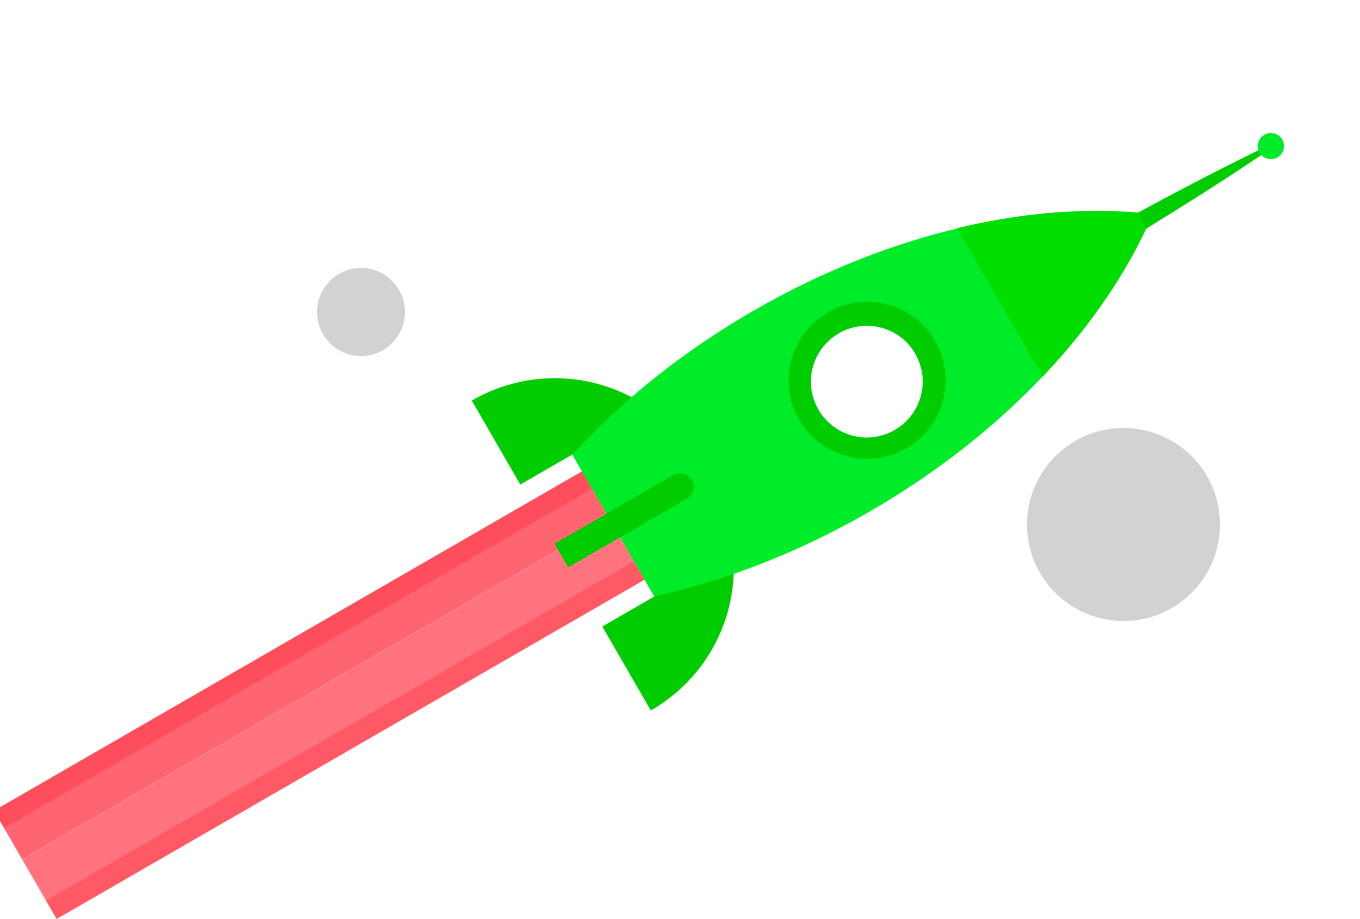
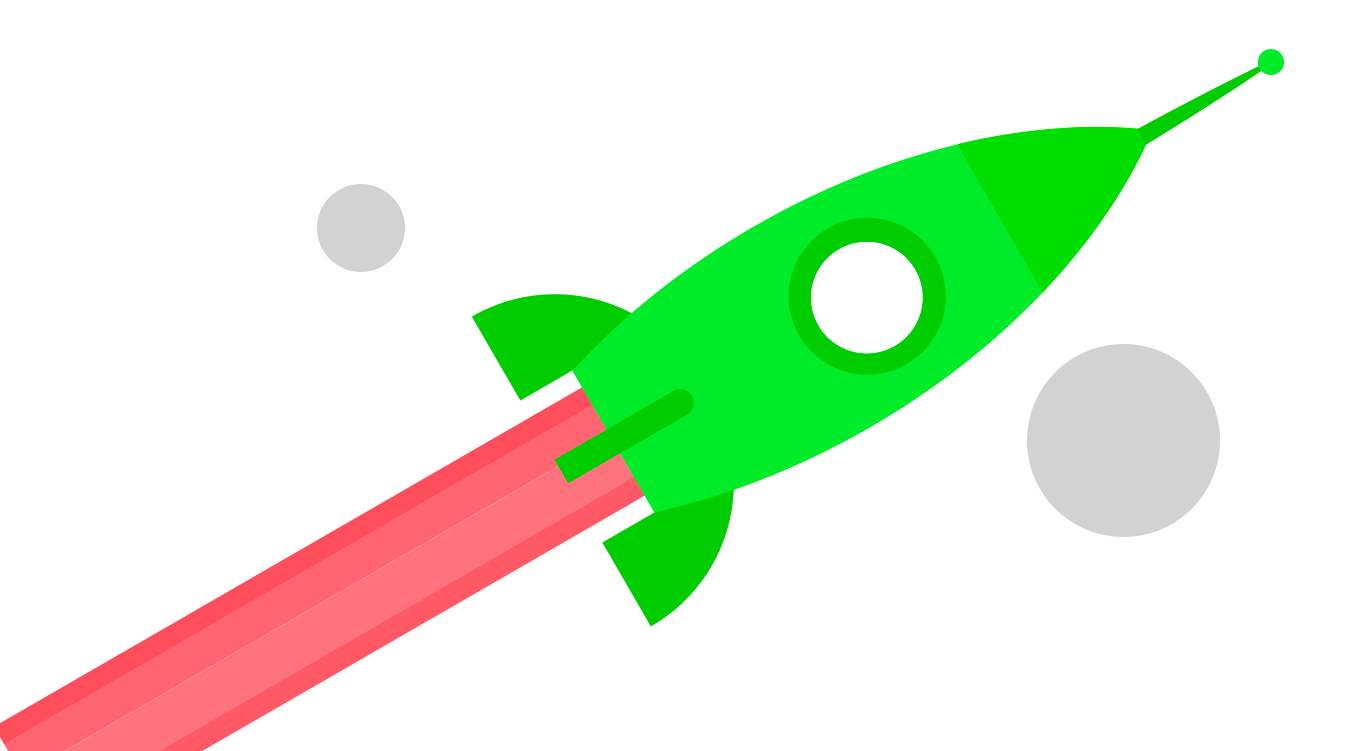
фикс слайдера с ракетой; фикс позиции фоновой картинки; фикс 100% ширины у картинок в блоке youadv; добавление 4-х иконок лево/право для слайдеров; добавление css-стилей для кнопок лево/право

diff --git a/assets/styles/style.css b/assets/styles/style.css
@@ -18,7 +18,7 @@
 }
 
 .tariff-navigator__item.next_tariff{
-    margin-left: 190px;
+    margin-left: 210px;
 }
 
 #tariffSlider .tariff-block{
@@ -112,21 +112,64 @@
     cursor: pointer;
 }
 .slider-nav .slider-nav_next{
-    right: 20px;
+    right: 15px;
+    top: -20px;
+    display: block;
+    background: #c1c1c1 url('../images/slide-right.png') 22px 15px no-repeat;
+    text-indent: -9999px;
+    transition: all 0.4s ease;
+    width: 60px;
+    height: 60px;
+    z-index: 10;
+    border-radius: 50%;
 }
 .slider-nav .slider-nav_prev{
-    left: 20px;
+  left: 15px;
+  top: -20px;
+  display: block;
+  background: #c1c1c1 url('../images/slide-left.png') 18px 15px no-repeat;
+  text-indent: -9999px;
+  transition: all 0.4s ease;
+  width: 60px;
+  height: 60px;
+  z-index: 10;
+  border-radius: 50%;
+}
+.slider-nav .slider-nav_next:hover,
+.slider-nav .slider-nav_prev:hover {
+  background-color: #E0E0E0;
 }
 
 .slider-nav.step-blocks-nav  .slider-nav_next{
     right: -40px;
+    top: -10px;
+    width: 26px;
+    height: 40px;
+    display: block;
+    background: #fff url('../images/youadv/right.png') 0 0 no-repeat;
+    text-indent: -9999px;
+    transition: all 0.4s ease;
 }
 
 .slider-nav.step-blocks-nav  .slider-nav_prev{
     left: -40px;
+    top: -10px;
+    width: 26px;
+    height: 40px;
+    display: block;
+    background: #fff url('../images/youadv/left.png') 0 0 no-repeat;
+    text-indent: -9999px;
+    transition: all 0.4s ease;
 }
-
+.slider-nav.step-blocks-nav  .slider-nav_next:hover,
+.slider-nav.step-blocks-nav  .slider-nav_prev:hover {
+  opacity: .75;
+}
 
 .line-block .price{
     white-space: nowrap;
+}
+
+.owl-carousel .owl-item img {
+  width: auto!important;
 }

diff --git a/assets/styles/main.css b/assets/styles/main.css
@@ -666,7 +666,7 @@ table {
 }
 .ac-header .header__bg-warp4 {
   position: relative;
-  background-position: 50% 0;
+  background-position: 50% 30px;
   background-image: url("../images/slider/rocket.png");
   background-repeat: no-repeat;
   width: 100%;
